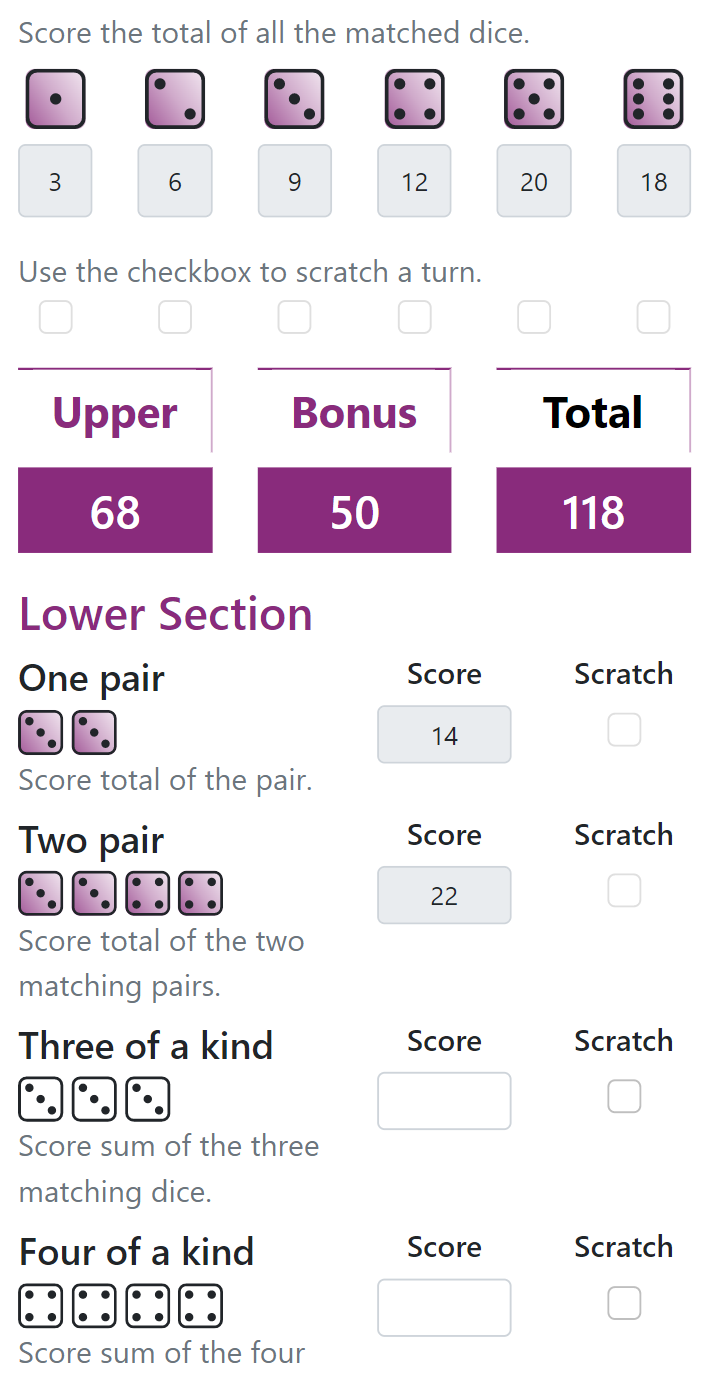
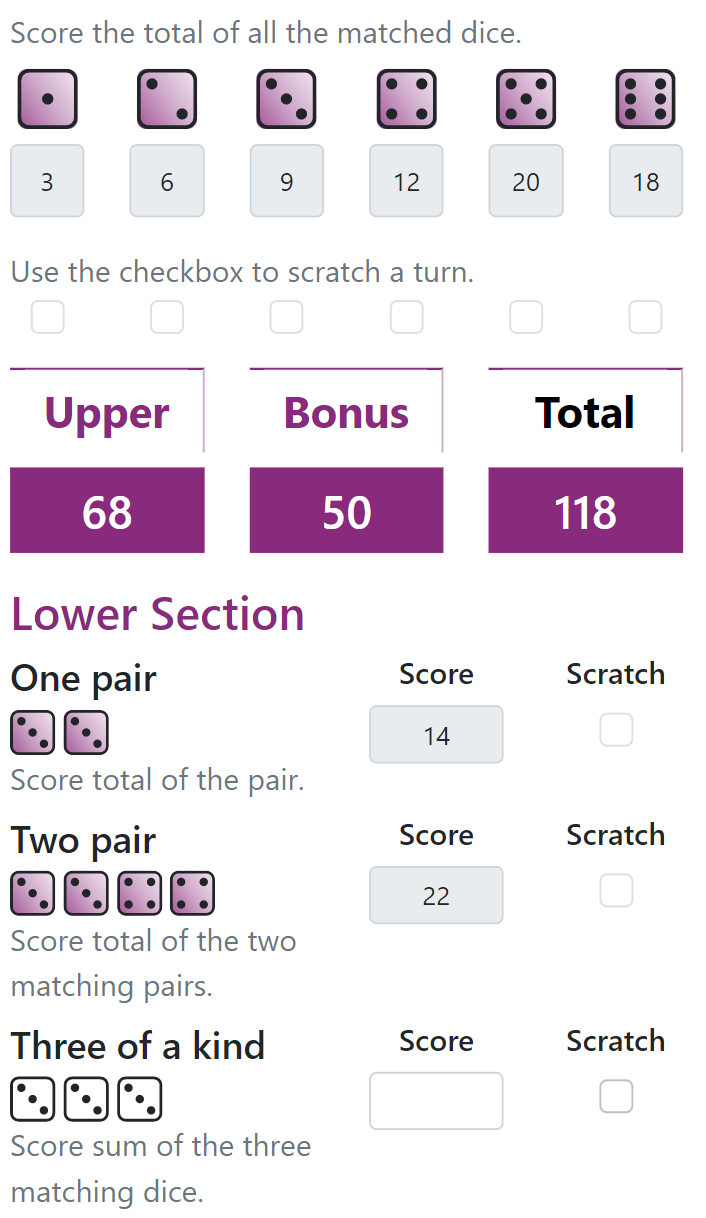
Images
- Added new images

diff --git a/resources/views/welcome.blade.php b/resources/views/welcome.blade.php
@@ -150,8 +150,8 @@
                 <p class="small mb-0">In beta now, official release January 2023.</p>
             </div>
             <div class="bg-light shadow-sm mx-auto"
-                 style="width: 80%; height: 400px; border-radius: 21px 21px 0 0;">
-                <a href="https://budget.costs-to-expect.com"><img src="{{ asset('images/budget.png') }}" width="275" height="" alt="A screen shot the budget overview in Budget" /></a>
+                 style="width: 80%; border-radius: 21px 21px 0 0;">
+                <a href="https://budget.costs-to-expect.com"><img src="{{ asset('images/budget.png') }}" width="350" alt="A screen shot the budget overview in Budget" class="img-fluid" /></a>
             </div>
         </div>
         <div class="bg-light me-md-3 pt-3 px-3 pt-md-5 px-md-5 text-center overflow-hidden">
@@ -161,8 +161,8 @@
                 <p class="small mb-0">In development, due in the first half of 2023.</p>
             </div>
             <div class="bg-dark shadow-sm mx-auto"
-                 style="width: 80%; height: 400px; border-radius: 21px 21px 0 0;">
-                <a href="https://budget.costs-to-expect.com"><img src="{{ asset('images/budget.png') }}" width="275" height="" alt="A screen shot the budget overview in Budget" /></a>
+                 style="width: 80%; border-radius: 21px 21px 0 0;">
+                <a href="https://budget-pro.costs-to-expect.com"><img src="{{ asset('images/budget.png') }}" width="350" height="" alt="A screen shot the budget overview in Budget" class="img-fluid" /></a>
             </div>
         </div>
     </div>
@@ -174,8 +174,8 @@
                 <p class="lead">A fun little project powered by the API, no more designated scorer, everyone gets a score sheet</p>
             </div>
             <div class="bg-light shadow-sm mx-auto"
-                 style="width: 80%; height: 400px; border-radius: 21px 21px 0 0;">
-                <a href="https://yahtzee.game-scorer.com"><img src="{{ asset('images/yahtzee.png') }}" width="275" height="" alt="A screen shot of the score sheet for Yahtzee" /></a>
+                 style="width: 80%; border-radius: 21px 21px 0 0;">
+                <a href="https://yahtzee.game-scorer.com"><img src="{{ asset('images/yahtzee.png') }}" width="350" alt="A screen shot of the score sheet for Yahtzee" class="img-fluid" /></a>
             </div>
         </div>
         <div class="bg-light me-md-3 pt-3 px-3 pt-md-5 px-md-5 text-center overflow-hidden">
@@ -184,8 +184,8 @@
                 <p class="lead">We built Yahtzee so figured why not build Yatzy as well. We haven't yet decided which version of the game we enjoy more.</p>
             </div>
             <div class="bg-dark shadow-sm mx-auto"
-                 style="width: 80%; height: 400px; border-radius: 21px 21px 0 0;">
-                <a href="https://yatzy.game-scorer.com"><img src="{{ asset('images/yatzy.png') }}" width="275" height="" alt="A screen shot of the score sheet for Yatzy" /></a>
+                 style="width: 80%; border-radius: 21px 21px 0 0;">
+                <a href="https://yatzy.game-scorer.com"><img src="{{ asset('images/yatzy.png') }}" width="350" alt="A screen shot of the score sheet for Yatzy" class="img-fluid" /></a>
             </div>
         </div>
     </div>
